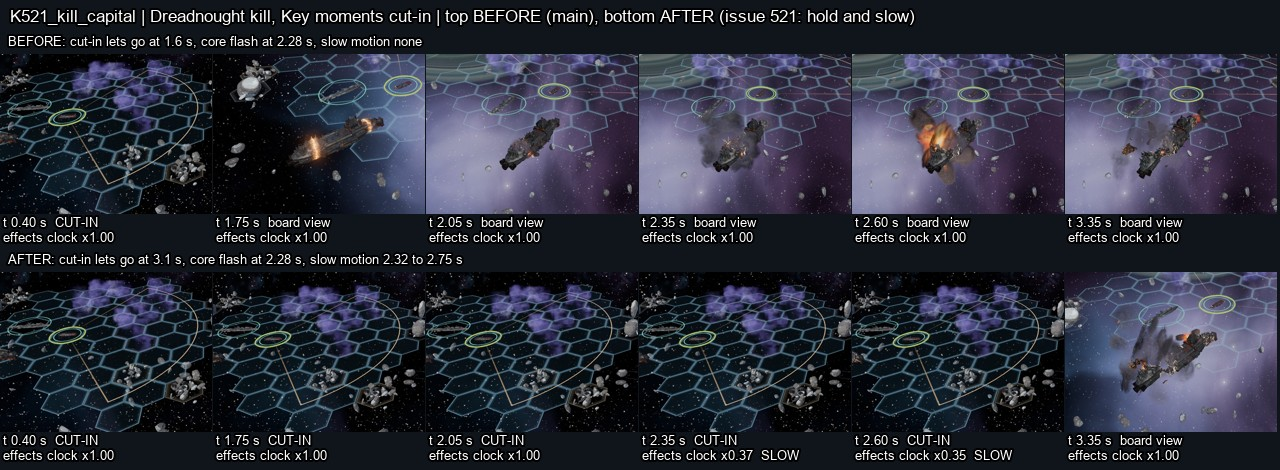
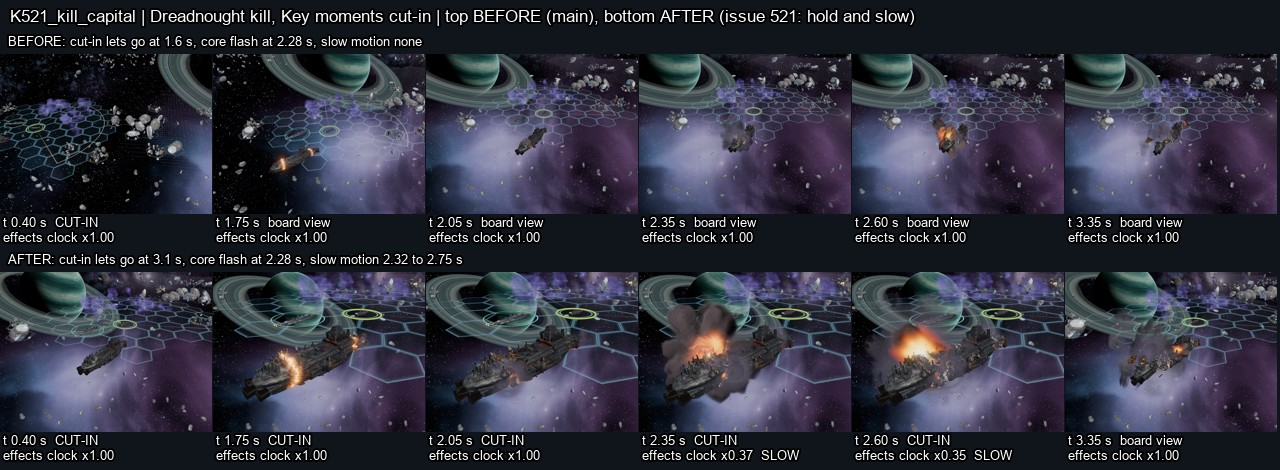
Issue 521: kill strips recaptured with the close kill framing; report updated
Refs #521

Claude-Session: https://claude.ai/code/session_01TX7Q24wh1D3GcxPLfd8vzS

diff --git a/contrib/opus/reviews/kill_moment_movement_report.md b/contrib/opus/reviews/kill_moment_movement_report.md
@@ -7,8 +7,10 @@ engine does the travelling), R189 (never sudden, jerky or stop-start; it must fe
 ## What Ryan will see
 
 Pictures (each 1280 x 470, code name on the top line, before above after), in docs/shots/kill_moment/:
-- K521_kill_cruiser.jpg, K521_kill_capital.jpg: the kill cut-in on main lets go at 1.6 s, before the core flash; after,
-  it holds through the flash and a short slow-motion beat, then comes back to the board.
+- K521_kill_cruiser.jpg, K521_kill_capital.jpg: the kill cut-in on main is a wide shot that lets go at 1.6 s, before
+  the core flash; after, the camera closes on the dying ship, holds through the core flash and a short slow-motion beat,
+  then eases back to the board. The strip cells show the full screen height around the ship (its real share of the
+  screen).
 - M521_frigate_long_diagonal.jpg, M521_cruiser_long_diagonal.jpg, M521_dreadnought_long_diagonal.jpg: the same ruled
   route of four sidesteps in a row. On main the hull skates sideways with its nose 60 degrees off its course the whole
   way; after, it swings its nose onto the course, burns, coasts, and turns back to its ruled facing while it brakes.
@@ -16,6 +18,14 @@ Pictures (each 1280 x 470, code name on the top line, before above after), in do
 
 ## A. The kill moment (audit item 7)
 
+- The cut-in frames the dying ship (Board review of PR 525: the old attacker-and-target shot left a dreadnought's
+  death a speck in the held frames). battle.gd `_kill_frame`: a low three-quarter view (64 degrees down from straight
+  up) on the target, close enough that its hull fills about 0.4 of the screen height for a cruiser and about half for a
+  capital (`KILL_FILL` 0.85 and 1.0 of the hull length before the three-quarter view shortens it; measured at true
+  size on the PC: cruiser L 23 at 33 units, dreadnought L 43 at 52 units). Of the four three-quarter views it takes one
+  with no other hull between the camera and the target, nearest the current view, so it never swings far. It eases in
+  on the camera rig's slow easing over the first 1.2 s (settled before a cruiser's flash at 1.67 s) and eases back out
+  over 0.9 s when the hold lets go. Volley, lance and torpedo cut-ins keep the old side-on pair shot.
 - battle.gd `_play_death`: when the kill takes the cut-in, the hold is now the time to the core flash (read from fx,
   `death_core_at`) plus the slow-motion beat (0.48 s) plus 0.35 s on the wreck. Measured on the PC: a cruiser's cut-in
   lets go at 2.48 s (was 1.6; flash at 1.67), a capital's at 3.10 s (was 1.6; flash at 2.28). The next event waits while
@@ -108,9 +118,6 @@ for every class; the rules choose the route.
 
 - A straight back-off of two hexes stays on retro jets (slow), not nose first: flown nose first, a heavy hull would spin
   half round and back for two hexes. Board's pick: keep it.
-- The cut-in for a kill frames the attacker and the target side-on from up to 200 units out, so the dying ship is small
-  in it (see K521_kill_cruiser.jpg). Holding longer makes that more noticeable; a closer kill framing would be a
-  follow-up, not part of this job.
 - Moves are a little longer (enemy move time a round 5.9 to 6.5 s in s24): nose-first adds the turns a ship in space
   would make, and the one-hex slides are slower on purpose.
 
@@ -121,5 +128,5 @@ for every class; the rules choose the route.
 ## Where things are
 
 - Capture and strip tools: contrib/opus/reviews/movement_capture/capture_521.gd and pack_521.py; PC folder
-  Downloads\voidsworn_test\opus521\ (own clone in repo\, raw frames raw_r1\ and raw_r2\, strips out_r1\ and out_r2\; r2
-  is the final code). Nothing else on the PC was changed except the queue files q521_r1.bat and q521_r2.bat.
+  Downloads\voidsworn_test\opus521\ (own clone in repo\, raw frames and strips per round: r2 is the final movement
+  code, r4 the final kill framing; run3.bat recaptures only the kills). Nothing else on the PC was changed except the queue files q521_r1.bat to q521_r4.bat.
